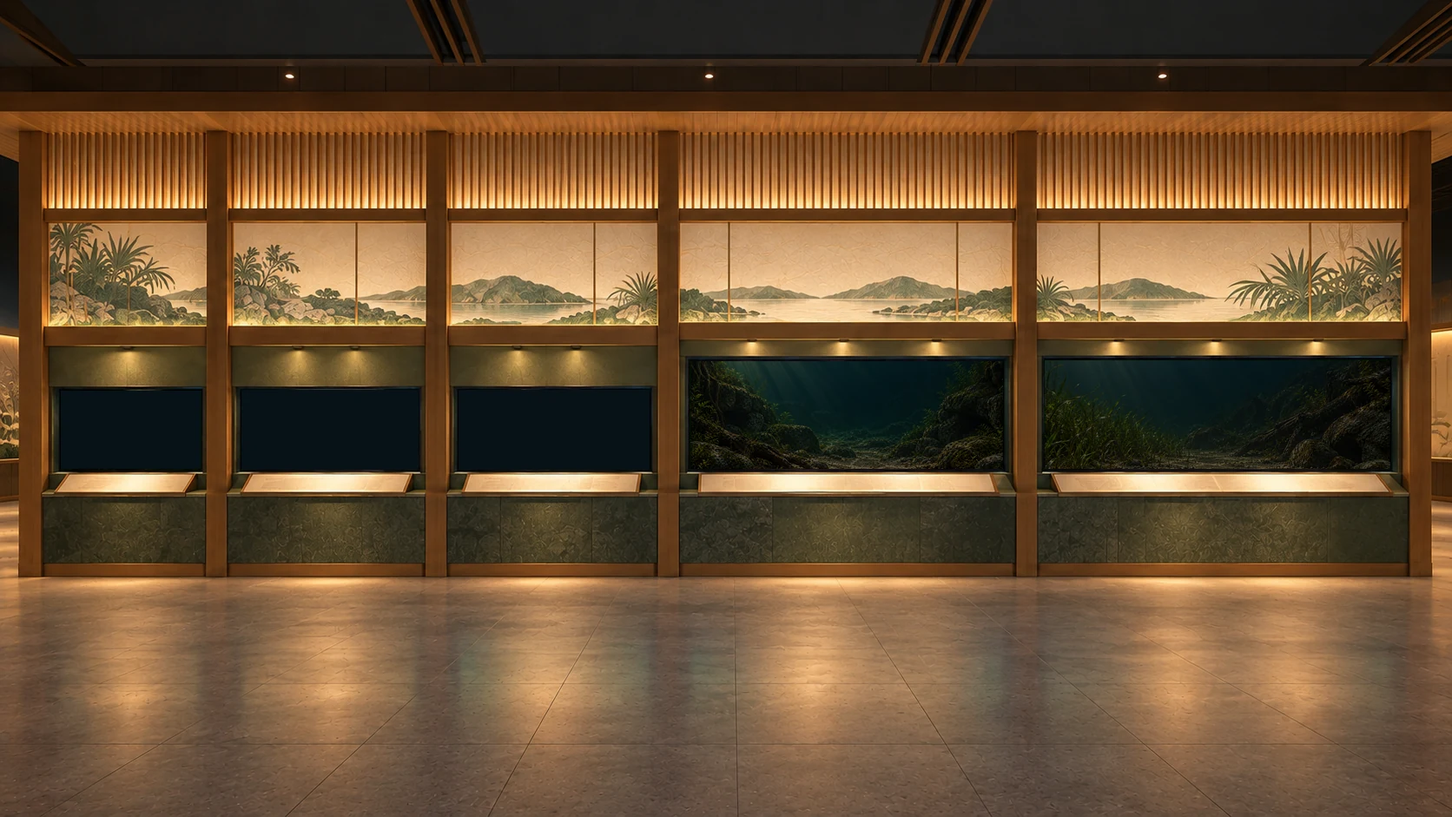
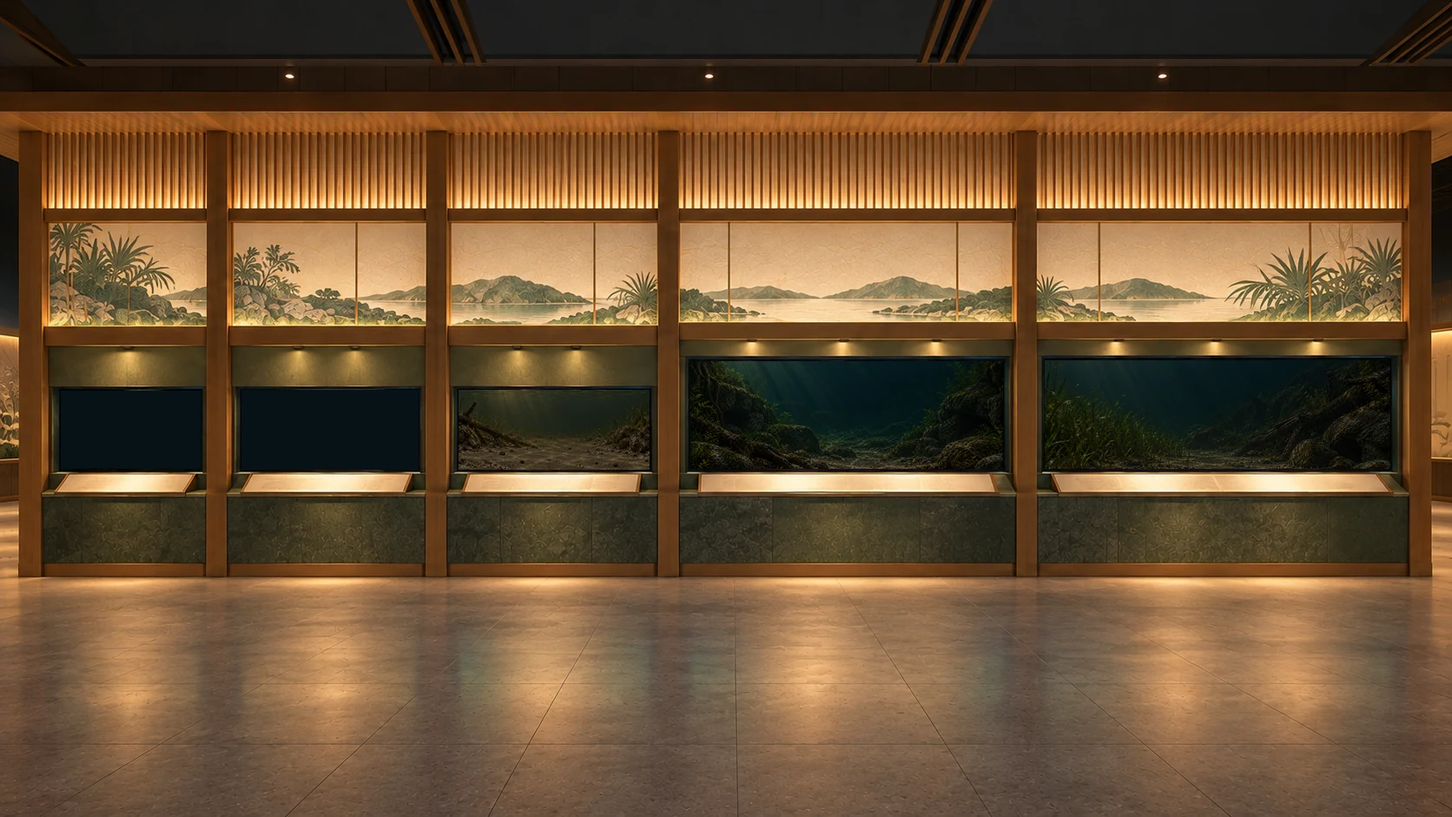
Return the estuary sand and mud tank to preparing, keeping its finished definition as drafts
Its only resident, a 3.5cm juvenile shrimp in a 150cm tank, could hardly be found on screen. Tanks whose creatures cannot be seen stay closed; next steps records the policy and how to reopen it.

Changed region(s): [[0.311, 0.4623, 0.4665, 0.5855]]

diff --git a/docs/next-steps.md b/docs/next-steps.md
@@ -4,13 +4,13 @@
 
 ## 今の状態
 
-- 館は3つの建物（本館・海の館・川と湖の館）。開いているのは本館の地上4階・地下2階、19室・87水槽で、87水槽に389の生き物がいる（種として数えると383種）。海の館（16室）・川と湖の館（13室）と、本館に足す2室は計画中で、館内図には「準備中」の枠で出る。体のつくりは魚、エビ（エビの描き方で歩く甲殻類を含む）、カニ、クラゲ、タコ、イカ、タツノオトシゴ、クリオネ、両生類、カブトガニ、エイ、チンアナゴ、カエル、ヒトデ、ウニ、巻貝・ウミウシの16。
-- **「琉球の川と河口」を開けた（2026年10月10日）**: 計画中の展示室を、Codex の絵で初めて通しで開けた（本館1階、`ryukyu-rivers`）。展示室の絵1枚と水景5枚を Codex の画像生成で作り（6枚を3並列で約3分。展示室の絵は、大型パネルが細長くなったので1回描き直した）、保管庫の `consumer/app-originals/environment/<entityId>/` に置いて採用を記録し、既存の取り込みスクリプトで取り込んだ。Codex の絵を保管庫に置いて採用を記録するのは `scripts/place-codex-environment.py`（展示室の絵は緑の矩形を測って dots と同じ形の記録を書き、展示計画の `glassAspect` と水槽の高さを書く）。手順は [アセットの保管庫の「展示室を開ける流れ」](asset-vault.md#展示室を開ける流れ)。5水槽のうち3つを開けた: 滝をのぼるハゼ水槽（`ryukyu-stream-gobies-90`。ボウズハゼ3匹）、テナガエビの川水槽（`river-prawns-90`。ミナミテナガエビ・ヒラテテナガエビ各2匹）、河口の砂泥底水槽（`estuary-mud-flat-150`。ヨシエビの幼体8匹）。オオウナギの淵（`giant-mottled-eel-400`）と南の河口のアカメ（`southern-estuary-akame-400`）は種がまだなく、準備中（水景は保管庫にあり、展示室の絵に暗く焼き込んである）。水槽の大きさは展示室の絵のガラスに合わせて 90×50、90×40、150×62、400×137、400×124cm にした。テナガエビの川と河口の水槽は、夜行性の種だけなので照明を `evening` にした（絵は日の差す昼の景色。マハゼやボラなど昼行性の魚が入ったら `natural` に戻す）。決めたこと・残っていること: ボウズハゼの科は、館のほかのハゼとそろえてオクスデルクス科にした（調査はハゼ科ボウズハゼ亜科。sizeNote に併記）。泳ぐ範囲を岩の高さまで上げた（`preferredZone.minY` 0.5）。岩に吸い付く・滝を登る動きは描けない。ヒラテテナガエビの絵は、はさみ脚が体の約0.7倍で、依頼の「成雄は体より長い」に届かない（採用の記録に書いた。作り直すなら新しい生成）。テナガエビは、はさみ脚が独立に動かず、石の下へも隠れない（面を歩く生き物は住みかを見ない）。ヨシエビは150cm水槽に体長3.5cm の幼体で、広い画面でも約25px、狭い画面では10px ほどと小さく、体の色が砂泥に溶け込むので、拡大しないとほとんど見つけられない（調査の河口の幼体の大きさ。画面検証で確かめた。水槽が空に見えるので、マハゼなどが届くまで準備中に戻すか、このまま開けておくかは、ユーザーに確かめる）。砂に潜る習性は入れていない（エビの描き方に潜る表現がなく、付けると止まったまま反応しなくなる）。テナガエビ・ヨシエビの夜行性、ボウズハゼの昼行性と単独性は調査に値がなく仮。
+- 館は3つの建物（本館・海の館・川と湖の館）。開いているのは本館の地上4階・地下2階、19室・86水槽で、86水槽に388の生き物がいる（種として数えると382種）。海の館（16室）・川と湖の館（13室）と、本館に足す2室は計画中で、館内図には「準備中」の枠で出る。体のつくりは魚、エビ（エビの描き方で歩く甲殻類を含む）、カニ、クラゲ、タコ、イカ、タツノオトシゴ、クリオネ、両生類、カブトガニ、エイ、チンアナゴ、カエル、ヒトデ、ウニ、巻貝・ウミウシの16。
+- **「琉球の川と河口」を開けた（2026年10月10日）**: 計画中の展示室を、Codex の絵で初めて通しで開けた（本館1階、`ryukyu-rivers`）。展示室の絵1枚と水景5枚を Codex の画像生成で作り（6枚を3並列で約3分。展示室の絵は、大型パネルが細長くなったので1回描き直した）、保管庫の `consumer/app-originals/environment/<entityId>/` に置いて採用を記録し、既存の取り込みスクリプトで取り込んだ。Codex の絵を保管庫に置いて採用を記録するのは `scripts/place-codex-environment.py`（展示室の絵は緑の矩形を測って dots と同じ形の記録を書き、展示計画の `glassAspect` と水槽の高さを書く）。手順は [アセットの保管庫の「展示室を開ける流れ」](asset-vault.md#展示室を開ける流れ)。5水槽のうち2つを開けた: 滝をのぼるハゼ水槽（`ryukyu-stream-gobies-90`。ボウズハゼ3匹）、テナガエビの川水槽（`river-prawns-90`。ミナミテナガエビ・ヒラテテナガエビ各2匹）。オオウナギの淵（`giant-mottled-eel-400`）と南の河口のアカメ（`southern-estuary-akame-400`）は種がまだなく、準備中（水景は保管庫にあり、展示室の絵に暗く焼き込んである）。**河口の砂泥底（`estuary-mud-flat-150`）は、ヨシエビの幼体8匹で一度開けたが、準備中に戻した**（ユーザーより。下の「方針」の「見えない生き物だけの水槽は開けない」）。仕上げた水槽の定義・水景の名前と説明・地形と、ヨシエビの下書きは、`content-drafts/tanks/estuary-mud-flat-150/tank.json`、`content-drafts/scenes/estuary-mud-flat-150/{scene.json,terrain.json}`、`content-drafts/fish/greasyback-shrimp/` に残してある。開けるときは、この3つを `src/content/` の同じ場所（水景は `environment/scenes/`）へ戻し、`install-vault-scene.py estuary-mud-flat-150`（`plate.webp` を作る。`scene.json` があれば上書きしない）と `install-vault-hall.py ryukyu-rivers`、縮小版の作り直しを流す。地形は面を歩くエビ向けに砂の面を手前に寄せた3段にしてあるので、マハゼなど泳ぐ魚を入れるときに見直す。水槽の大きさは展示室の絵のガラスに合わせて 90×50、90×40、150×62、400×137、400×124cm にした。テナガエビの川水槽は、夜行性の種だけなので照明を `evening` にした（絵は日の差す昼の景色）。河口の水槽の下書きも同じ理由で `evening` にしてあるので、マハゼやボラなど昼行性の魚を入れるときに `natural` に戻す。決めたこと・残っていること: ボウズハゼの科は、館のほかのハゼとそろえてオクスデルクス科にした（調査はハゼ科ボウズハゼ亜科。sizeNote に併記）。泳ぐ範囲を岩の高さまで上げた（`preferredZone.minY` 0.5）。岩に吸い付く・滝を登る動きは描けない。ヒラテテナガエビの絵は、はさみ脚が体の約0.7倍で、依頼の「成雄は体より長い」に届かない（採用の記録に書いた。作り直すなら新しい生成）。テナガエビは、はさみ脚が独立に動かず、石の下へも隠れない（面を歩く生き物は住みかを見ない）。ヨシエビは150cm水槽に体長3.5cm の幼体で、広い画面でも約25px、狭い画面では10px ほどと小さく、体の色が砂泥に溶け込むので、拡大しないとほとんど見つけられなかった（調査の河口の幼体の大きさ。画面検証で確かめた。これが準備中に戻した理由）。砂に潜る習性は入れていない（エビの描き方に潜る表現がなく、付けると止まったまま反応しなくなる）。テナガエビ・ヨシエビの夜行性、ボウズハゼの昼行性と単独性は調査に値がなく仮。
 - **既存の水槽へ6種を取り込んだ（2026年10月10日）**: ブラックアロワナ（arowana-300。全長65cmで描いた）、インドネシアシーラカンス（coelacanth-300。125cm。日中に洞窟の外で見られた記録があるので `hideByDay` を付けず、単独。category を「コモロ諸島とインドネシアの深い岩礁」に変えた。保全状況 VU は IUCN を直接確かめていない値）、ネオランプロログス・カリプテルス（shell-dwellers-45。上限1匹。表示名は同じ水槽の既存種の「ログス」表記にそろえ、カタログの表記は別名に入れた。殻へ入る習性は付けず、殻を運ぶ動きは描けない。全長12cm は45cm水槽の幅の約27%で、4cm 前後のほかの種に対してかなり大きく見える）、ダリオ・ヒスギノンとダリオ・ティグリス（macro-fresh-30。各2匹。水槽は「ダリオの仲間4種を見比べる」にし、category を「インド北東部とミャンマー北部の小川」に変えた。ヒスギノンの頬の水色は種の写真で支持されない色で、dots の再開後に編集で直せる）、アデヤカフトユビシャコモドキ（mantis-45。1匹。上限を2にした。実際に同じ水槽で飼うことは勧められないと説明文に書いた。頭の前へ伸びる突起が標本図より長い）。6種とも速さや休む頻度は調査に値がなく仮（シャコモドキの昼行性だけは根拠あり）。大きさが出典で食い違う種は sizeNote に両方を書いた。
 - **`plan:check` が「画像を待つ」を分けて出す（2026年10月10日）**: 「取り込める」と出ていたナンヨウタコクラゲ・クロカムリクラゲと、「水槽を待つ」と出ていたシマヨシノボリは、dots の記録に「生成済み」「実行中」とあるだけで、画像のファイルが保管庫になかった。`plan:check` は、`species/<id>/meta.json` の画像のパスにファイルがあるかを見て、ない種を「画像を待つ」と出すようにした。
 - **地形の案内の絵（2026年10月10日）**: 水景を編集して、魚を隠す物体を手前=赤・中=黄・奥=青で塗った版と、隠れ場所の口にマゼンタの丸を付けた版を Codex に作らせ、下書きの道具に渡せるようにした（`draft-terrain.py --occluders … --shelters …`）。3水景で試し、塗り分け版ははっきり効いた（案内なしは水草・根・水まで遮蔽に巻き込むが、案内ありは岩と流木だけを選べる）。印の版は当たりが2〜3割で目安どまり。面のつなぎと縁の余裕は、どちらにしても手作業。結果と直すとよい点は [地形の下書きの「案内の絵を使う」](terrain-drafting.md#案内の絵を使う2026年10月10日)。dots への要件（保管庫の `consumer/environment-requests-ja.md`）にも足した。
 - **建物の段（2026年10月10日）**: 館 → 建物 → 階 → 展示室 → 水槽の階層にした。建物は `src/content/museum/buildings/<id>/`（`building.json` と断面図 `section.webp`）に1つずつ置き、フォルダを足せば建物が増える（`museum.json` は館の名前と紹介文だけ）。階・展示室・水槽の id は館全体で重ならないので、URL（`?floor=`・`?hall=`・`?tank=`）と保存データの形は変わらない。本館以外の建物の断面図は `?building=<id>`。館内図は、建物が複数あると見出しの下に建物の切り替えが出て、断面図とフロアガイドが選んだ建物のものに替わる。階の一覧の「戻る」と Esc は、その階の建物の断面図へ戻る。図鑑の「見られる水槽」と展示室の見出しは「海の館 3階」のように建物を付ける。準備中の展示室のカードは低くした。新しい2つの建物の断面図は、本館の断面図を参照画像にして Codex の画像生成で作った（原画は保管庫の `consumer/app-originals/museum/`）。仕組みは [設計の「館・建物・階・展示室の階層」](museum-architecture.md#1-館建物階展示室の階層実装済み)、建物を足す手順は [アセットの保管庫](asset-vault.md#建物を足す流れ)。検証・計測のスクリプトは、建物と階の並びを `scripts/museum-content.ts` から読む。
-- **館の拡張計画（2026年10月10日）**: 展示計画（保管庫の `catalog/exhibit-plan.json`）を第2版にし、3つの建物・14階・50展示室・254水槽へ広げた（開いているのは19室・87水槽）。計画中の170水槽には、何を見せるか（`storyJa`）、水景の説明（`sceneEn`）、入れたい種の手がかり（`candidates`。和名・学名・役割。合わせて約1,260種。dots の調査で確かめる前提の手がかりで、確定ではない）がある。置いた種と手がかりを合わせて約1,660種ぶんの器で、水槽1つに平均6.6種（手がかりのうち約140種は、まだ描けない体のつくりを待つ。改良品種46は種に数えていない）。`phase` 3（159水槽）は今の体のつくりで開けられ、`phase` 4（11水槽）はまだ描けない体のつくりが主役。構成と3つに分けた理由は [設計の「建物と階の構成」](museum-architecture.md#建物と階の構成)。保管庫に画像があって置き場所のなかった種は、すべて計画のどこかの水槽に置いた。**`bun run plan:check`** が、計画とアプリの食い違い（建物・階・展示室の枠の並び、水槽の展示室、水槽の種、置き場所のない種）と、器の数、「取り込める種」（水槽が開いている）・「水槽を待つ種」を表示する。計画を書くときに決めたこと: イトウ・ホンモロコ・ゲンゴロウブナは、今の水槽に置いたまま、計画中の水槽（湿原の川、琵琶湖のヨシ原）にも置いた（その展示室を開けるときに、今の水槽から外すか決める）。深海の底の4種（グソクムシ2種、タカアシガニ、キワ・ヒルスタ）と水生昆虫2種・カブトエビは、海の館と川と湖の館の水槽へ移した。インドネシアシーラカンスは coelacanth-300 で2種を見比べる。
+- **館の拡張計画（2026年10月10日）**: 展示計画（保管庫の `catalog/exhibit-plan.json`）を第2版にし、3つの建物・14階・50展示室・254水槽へ広げた（開いているのは19室・86水槽）。計画中の170水槽には、何を見せるか（`storyJa`）、水景の説明（`sceneEn`）、入れたい種の手がかり（`candidates`。和名・学名・役割。合わせて約1,260種。dots の調査で確かめる前提の手がかりで、確定ではない）がある。置いた種と手がかりを合わせて約1,660種ぶんの器で、水槽1つに平均6.6種（手がかりのうち約140種は、まだ描けない体のつくりを待つ。改良品種46は種に数えていない）。`phase` 3（159水槽）は今の体のつくりで開けられ、`phase` 4（11水槽）はまだ描けない体のつくりが主役。構成と3つに分けた理由は [設計の「建物と階の構成」](museum-architecture.md#建物と階の構成)。保管庫に画像があって置き場所のなかった種は、すべて計画のどこかの水槽に置いた。**`bun run plan:check`** が、計画とアプリの食い違い（建物・階・展示室の枠の並び、水槽の展示室、水槽の種、置き場所のない種）と、器の数、「取り込める種」（水槽が開いている）・「水槽を待つ種」を表示する。計画を書くときに決めたこと: イトウ・ホンモロコ・ゲンゴロウブナは、今の水槽に置いたまま、計画中の水槽（湿原の川、琵琶湖のヨシ原）にも置いた（その展示室を開けるときに、今の水槽から外すか決める）。深海の底の4種（グソクムシ2種、タカアシガニ、キワ・ヒルスタ）と水生昆虫2種・カブトエビは、海の館と川と湖の館の水槽へ移した。インドネシアシーラカンスは coelacanth-300 で2種を見比べる。
 - **地形の下書きを絵から作る道具（2026年10月10日）**: `uv run scripts/draft-terrain.py <水景id|画像>... [--compare]` が、水景の絵から `terrain.json` の下書きと、絵に地形を重ねた確認画像を `tmp/terrain-drafts/<id>/` に出す（1水景約6秒。既存のファイルは `--write` を付けたときだけ書く）。単眼の奥行き推定（Depth Anything V2 Small）で底と物体を分け、砂の面を手前・中・奥の3段、岩や流木を遮蔽の多角形と回避領域の楕円、足もとの暗がりを隠れ場所にする。既存の92水景の手書きの地形と比べた結果（`uv run scripts/draft-terrain.py evaluate`）: 手前の砂の線は77%で合い（y の差の中央値は絵の高さの1.2%）、砂の面ぜんぶでは67%、遮蔽の面積は IoU 0.54（取りこぼしは少なく、余計に取る）、回避領域は IoU 0.26、隠れ場所の位置は35%。見立てでは、そのまま使えるのは1割に届かず（クラゲの水槽など底だけの水景）、手直しで使えるのが6〜7割、作り直しに近いのが2〜3割（根の林立する水景、水草が画面を埋める接写、巣穴・海草・イソギンチャクが主役の水景、ほとんどが水の大水槽）。下書きに差し替えた92水景は、どれも水槽の耐久テスト（`bun run test:tanks`）を通った。つまり「下書きを出す → 確認画像を見て、遮蔽の取捨と奥行き、岩の上面、隠れ場所（巣穴・イソギンチャク・海草の茎は一から）、水面より上の面を手で直す」という使い方になる。仕組み・数字・人が見るべき点は [地形の下書きを絵から作る](terrain-drafting.md)。
 - **テストの効率化（2026年10月10日）**: `bun run test` は約145秒から約30秒になった（37ファイル・426件）。(1) 全水槽を回す耐久テスト（`terrainEndurance.test.ts`）を水槽ごとのテストに分け、`vite.config.ts` の8つのプロジェクト（`tanks-1`〜`tanks-8`）で並列に流す。全水槽の「回避領域の外・ガラスの内」のテスト（`terrainMotion.test.ts` にあった）もここへ移した。`bun run test:tanks -- -t <水槽id>` で担当の水槽だけに絞れる。(2) 内容のモジュール（`vite/contentModules.ts`）が、モジュールを1つ読むたびに内容ファイル約1,100個すべてを監視に登録していて、全種を読むテストの準備がファイルごとに11秒かかっていた。モジュールが使うファイルだけを登録するようにした（開発サーバーで図鑑や展示室を開くのも速くなる。ビルドの成果物は変わらない）。(3) 作業中は `bun run test:fast`（全水槽を回すテストを除く。約6秒）。(4) テストの間の `Math.random` を決まった乱数列にした（`src/core/testSetup.ts`。テストごとに振り直す）。`bun run test:fuzz` は乱数を毎回変え、使った値を表示する（`TEST_SEED=<値>` で再現）。6回流して落ちるテストはなかった。(5) `tmp/` に残っていた古い写しのテスト（6ファイル・29件）を拾っていたので、外した（これまでの「36ファイル・181件」にはこれが入っていた）。(6) 画面検証に `--changed`（まだ commit していない差分から展示室を選ぶ。`--changed=<ref>` も可）と `--dry-run`（選んだ範囲の表示だけ）を足した。内容ファイルと魚以外の体のつくりの描き方だけの差分なら展示室を絞り、共通部分に及べば全体を検証する。
 - **性能の計測（2026年10月10日）**: `bun run measure:perf` が、狭い画面（420×912）で全18展示室と、各展示室でいちばん匹数の多い水槽の水槽画面を測り、基準値（`docs/performance-baseline.json`）と比べる（約7分）。測り方・基準値・分かったことは [性能の計測と基準値](performance.md)。要点: 1フレーム（16.7ms）に対して、いちばん重い展示室（176匹）でもメインスレッドの計算は 0.8ms、ふだんの描画で 2.5ms（M4 Pro での値。iPhone の実機では測っていない）。計算は生き物の数に比例する（1匹約 0.005ms）ので、展示室1室180匹までの決まりを守れば、種が増えても1フレームは重くならない。GPU の側は生き物の数ではなくキャンバスの画素数で決まる。カエルの体の変形だけが重かった（1匹が魚約50匹ぶん）ので直した（africa の計算が 0.90ms → 0.51ms。絵は1画素も変わらない）。生き物のメッシュをまとめて描く方法は、描画の回数が7割減るが Mac では計算が増えて得にならず、入れていない。最初の JS（289KB）は7割が react-dom で、水槽画面と設定パネルを後から読む形にしても多くて 12KB しか減らないので、やらない。描画の作りを変えたときに絵が変わっていないことを確かめる `bun run compare:render -- <前のビルド>`（乱数と時刻を固定して2つのビルドを画素単位で比べる）も足した。
@@ -37,7 +37,7 @@
 - 館内図は2段（断面図とフロアガイドで階を選ぶ → その階の展示室を縮小版つきで一覧する）。URL は `?floor=<階>`。展示室の「館内図」と Esc はその階の一覧へ戻る（[設計の「館・階・展示室の階層」](museum-architecture.md#1-館階展示室の階層実装済み)）。
 - 最初に読む JS は 299KB（gzip 93KB。2026年10月10日に建物の段と準備中の展示室の枠を足して約10KB 増えた）。内容はビルド時に検証して、起動時は館の索引（約20KB）だけ、部屋の絵のガラスの位置と水景の見出しは階を開くときに階ごとのモジュールで、展示室の中身は入るときに1チャンクで読む（[設計の「数百種に耐えるための決まり」](museum-architecture.md#数百種に耐えるための決まり2026年10月5日に実装10月7日に作り直し)）。館の索引は展示室と水槽の数に比例し、生き物と水景の数では増えない。
 - 保存データの古い形式からの移行処理は消した（古いキーは読まずに消す）。水槽の設定は、その展示室に初めて入ったときに加わる。
-- 保管庫（`~/Documents/aquarium-assets`）の種のフォルダは388種（2026年10月8日）。dots は約1,300種を目標に制作を続けている。魚以外は、体のつくりができるまで採否を保留している（カニ、クラゲ、タコ・イカ、タツノオトシゴ、クリオネ、有尾類、カブトガニ、エイ、チンアナゴ、カエル、ヒトデ、ウニ、巻貝・ウミウシは済み。二枚貝、イソギンチャク、ウミユリ、等脚類、水生昆虫、カブトエビ、ヒラメ・カレイ、渓流の平たい魚などが残る）。計画で水槽が決まっていて館にまだいない種は、2026年10月10日の取り込みのあとで22（うち3種は画像が保管庫に届いていない。`bun run plan:check`）。
+- 保管庫（`~/Documents/aquarium-assets`）の種のフォルダは388種（2026年10月8日）。dots は約1,300種を目標に制作を続けている。魚以外は、体のつくりができるまで採否を保留している（カニ、クラゲ、タコ・イカ、タツノオトシゴ、クリオネ、有尾類、カブトガニ、エイ、チンアナゴ、カエル、ヒトデ、ウニ、巻貝・ウミウシは済み。二枚貝、イソギンチャク、ウミユリ、等脚類、水生昆虫、カブトエビ、ヒラメ・カレイ、渓流の平たい魚などが残る）。計画で水槽が決まっていて館にまだいない種は、2026年10月10日の取り込みのあとで23（うち3種は画像が保管庫に届いていない。`bun run plan:check`）。
 - **dots の画像生成は戻った（2026年10月8日、ユーザーより）。** 作り直しの依頼や新しい絵の依頼も、また出せる。
 - **10月8日に9種を取り込んだ**: ヤマトオサガニ（作り直しの r2 の2枚目）とヒメヤマトオサガニを干潟（mudflat-120）、オオズワイガニを北の海のカニ水槽、ティンフォイルバルブをメコン川の大型魚水槽、アカマツカサを夜の岩礁水槽、ラビドクロミス・キスムラエとソコロフィをマラウイ湖の水槽、トリマ・ルブロマクラタムとメガネベニハゼをサンゴ礁の岩陰水槽（macro-reef-30。匹数の上限を3から8へ）に置いた。メガネベニハゼの住みかは、調査では岩の割れ目（crevice）だが、この水槽の地形にあるサンゴ礫の隙間（cave）にした。オオズワイガニ（脚を広げた幅42cm）は、甲幅からの換算どおりで、ズワイガニ（63cm）より小さく見える。ズワイガニのほうが換算より大きい。
 
@@ -86,6 +86,7 @@
 - **水族館にいそうな生き物は載せる**（2026年10月10日、ユーザーより）。爬虫類・哺乳類・鳥（ウミガメ、ペンギン、アザラシ、イルカ、ワニ、カワウソなど）も載せる前提にする。明らかに水族館にいないもの（クジラ、カバ、水鳥など）は載せない。哺乳類などは動きを作るのが難しいので、体のつくりができるまでは展示計画の候補（`needs` つき）のまま置く。
 - **改良品種は同じ種として数える**（2026年10月10日、ユーザーより）。金魚・メダカ・錦鯉などは、姿の違いとして複数置いてよいが、種の数は増やさない（展示計画の候補では `varietyOf`、アプリでは同じ `speciesKey`）。
 - **外来種は「外来種の水辺」だけに置く**（2026年10月10日、ユーザーより）。オオクチバスやブルーギルを原産地の水槽に重ねて置かない。原産地の水槽で存在感の大きい種が出てきたら、そのときに考える。
+- **見えない生き物だけの水槽は開けない**（2026年10月10日、ユーザーより）。水槽に対して小さすぎたり、底の色に溶け込んだりして、画面でほとんど見つけられない生き物しかいない水槽は、準備中のままにする（一度開けたものは準備中に戻す）。完成までは時間がかかるので、少しずつ進めばよい。思いどおりに見せられない生き物は、その生き物に合う小さな水槽を展示計画に足すなど、拡張計画の中で置き方を考える。数字の決まりは作っていない（体長が水槽の幅の2〜3%でも、色のある群れで泳ぐテトラは見える。小さく、底にいて、底と同じ色の生き物が見えない）。水槽を開ける前に、画面検証の画像で生き物が見つけられるかを見る。
 - **互換性は気にしない。** 保存データ、水槽ID、展示室ID、ファイルの形は、よりよい設計のためなら変えてよい（利用者は開発者本人だけ）。古い保存データの移行処理も消してよい。
 - **器が先。** 種を受け入れる前に、その種の入る水槽が展示計画にあるようにする。置き場所のない種は `bun run plan:check` が食い違いとして出す。展示室や水槽を計画から変えるときは、先に展示計画を直す。
 - **データで決める。** 展示室・水槽・水景・生き物・建物は `src/content/` のファイルを置けば読み込まれる形を保つ。中央の一覧ファイルを手で編集する形にしない。取り込みはスクリプトで行う（[アセットの保管庫](asset-vault.md#展示室を開ける流れ)）。
@@ -125,7 +126,7 @@
 
 テストの効率化、性能の計測、建物の段、館の拡張計画、最初の展示室（琉球の川と河口）を開けること、既存の水槽への6種の取り込みは2026年10月10日に済ませた（上の「今の状態」）。
 
-1. **計画中の展示室を開ける（続き）**: 最初の1室「琉球の川と河口」は Codex の絵で通した（上の「今の状態」）。同じ手順（[アセットの保管庫](asset-vault.md#展示室を開ける流れ)）で次を開ける。保管庫に画像のある種が入る展示室から（`bun run plan:check` の「水槽を待つ」）: 本館4階「北の川とサケの遡上」（`northern-rivers`。サケ、イトヨ。イトウも置ける）、海の館2階「ヨーロッパの海」（`european-seas`。5種）、川と湖の館の「ヨーロッパの川と湖」「北アメリカの川と湖」「両生類」（各1種）。海の館・川と湖の館は、建物として初めて開くので、建物の切り替えと断面図の見え方も確かめる。1室の中で開く水槽が1〜2台だけになる展示室は、dots の配送を待ってもよい。1室あたり、Codex の絵（展示室1枚、水景は水槽の数、案内の絵は開ける水槽×2枚）で約10分、種の下書きと地形はサブエージェントに分けて並行させる（種の下書き1件、地形は水槽ごとに1件）。展示室の絵は、パネルの大きさの目安を画素で書く。「琉球の川と河口」の残り: 準備中の2水槽（オオウナギ、アカメ。種が届いたら地形を作って開ける）、候補の種（ヨシノボリの仲間、コンジンテナガエビ、マハゼ、ボラなど。dots の作業リストに入っている）。
+1. **計画中の展示室を開ける（続き）**: 最初の1室「琉球の川と河口」は Codex の絵で通した（上の「今の状態」）。同じ手順（[アセットの保管庫](asset-vault.md#展示室を開ける流れ)）で次を開ける。保管庫に画像のある種が入る展示室から（`bun run plan:check` の「水槽を待つ」）: 本館4階「北の川とサケの遡上」（`northern-rivers`。サケ、イトヨ。イトウも置ける）、海の館2階「ヨーロッパの海」（`european-seas`。5種）、川と湖の館の「ヨーロッパの川と湖」「北アメリカの川と湖」「両生類」（各1種）。海の館・川と湖の館は、建物として初めて開くので、建物の切り替えと断面図の見え方も確かめる。1室の中で開く水槽が1〜2台だけになる展示室は、dots の配送を待ってもよい。1室あたり、Codex の絵（展示室1枚、水景は水槽の数、案内の絵は開ける水槽×2枚）で約10分、種の下書きと地形はサブエージェントに分けて並行させる（種の下書き1件、地形は水槽ごとに1件）。展示室の絵は、パネルの大きさの目安を画素で書く。「琉球の川と河口」の残り: 準備中の3水槽（オオウナギ、アカメは、種が届いたら地形を作って開ける。河口の砂泥底は、マハゼなど大きさのある種が届いたら、残してある下書きから開ける。ヨシエビは、そのとき一緒に置くか、汽水の小さなエビとハゼを間近で見せる30〜60cm の水槽を計画に足して移す。展示計画の `notes.openQuestionsJa`）、候補の種（ヨシノボリの仲間、コンジンテナガエビ、マハゼ、ボラなど。dots の作業リストに入っている）。
 2. **地形の下書きの道具を直す**: 案内の絵（塗り分け版）を使うとき、塗られた物体を色の境目と連結成分ごとに別の遮蔽に分ける（今は手前から重ねた輪郭にするので、隣り合う石が1枚にまとまり、石の多い2水景では結局引き直した）。奥の段（青）のうち、開けた水に掛かる広い塗りは遮蔽にしない。面を歩く生き物だけの水槽では、石や流木の上面を出さない選択肢と、砂の面を段に分けて端点でつなぐ下書きがあると、手作業が減る。直したら、既存の92水景の評価（`uv run scripts/draft-terrain.py evaluate`）が悪くなっていないことと、「琉球の川と河口」の3水景の案内の絵（保管庫の `consumer/app-originals/environment/scene-*/guide-*.png`）で、手で直した terrain.json にどれだけ近づくかを見る。
 3. **画像の届いていない3種**: クロカムリクラゲ、ナンヨウタコクラゲ、シマヨシノボリは、dots の配送が届いたら取り込む（上の「dots と約束したまま残っていること」）。手順は上の「届いた生き物を取り込む手順」。
 4. **魚以外の体のつくり（続き）**: 計画中の水槽の手がかり（`candidates[].needs`）で、まだ描けない体のつくりを待つ種は、固着するもの（イソギンチャク・サンゴ・ホヤなど）25、水生昆虫22、二枚貝19、ワニ9、イルカの仲間7、ナマコ6、淡水のカメ6、アザラシの仲間5、ヒラメ・カレイ5、カワウソ4、ウミガメ3、ペンギン3の順に多い。爬虫類・哺乳類・鳥は載せる前提だが（上の「方針」）、哺乳類は動きがかなり違って難しいので、無脊椎動物と水生昆虫を先にし、爬虫類・哺乳類・鳥ではウミガメ（羽ばたく泳ぎはエイやクリオネに近い）やペンギンのように分かりやすく動きの単純なものから始める。ウミガメ・ペンギン・アザラシなどは、画像の視点を dots と決めるところから要る。保管庫には、二枚貝、イソギンチャク、ウミユリ、等脚類、水生昆虫、カブトエビ、ヒラメ・カレイ、渓流の平たい魚の視点がある（残りは5〜7個の見込み。画像はそろっているので、描き方を作れば dots なしで約20種が館に入る。ただし置き場所は計画中の水槽が多いので、1の展示室を開ける作業と組にする）。エビの描き方に、砂に潜る表現（ヨシエビ、コトブキテッポウエビ）と、はさみ脚を独立に動かす表現（テナガエビ）がない。二枚貝は巻貝の「殻を楕円で書いて動かさず、殻の外の軟体を変形する」仕組みがそのまま使える（シャコガイは外套膜の縁の波打ちと、驚いて外套膜を引っ込める動き。ただし這わないので、その場にとどまる性質が要る。ヌマガイなど砂に半分埋まるものはカブトガニの切り抜きも使える）。イソギンチャクは触手が多いので、ウニの放射状の揺れ（`radial`）と巻貝の `feelers` を組み合わせた新しい描き方が向く（動かない生き物の性質も要る）。reef-invertebrates-90 には、シャコガイを描けるようになったら足す（展示計画の futureSpecies）。巻貝・ウミウシで足りないもの: ガラス面を這う（ガラスを面として持つ設計と足の裏の絵が要る）、蓋の動き、リンゴガイが水面へ呼吸管を伸ばす、卵嚢を産む、ウミウシが海綿の上にとどまる（面を歩く生き物は住みかを見ない）、メッシュが粗く（26×16）引っ込める間に殻の縁がわずかに潰れる（画面では見えない）。スパイクトップアップルスネールは絵の呼吸管の位置が違うので、dots の再開後に作り直しを頼む。ヒトデ・ウニで足りないもの: ガンガゼが昼に岩穴へ隠れる（面を歩く生き物は住みかを見ない）、ガラス面を這う（口側の絵がない）、ヒトデの捕食・胃を出して食べる様子、ウニが海藻に登る動き。reef-invertebrates-90 ではヒトデとガンガゼが手前で大きく見え、起動直後に重なることがある。手順は [設計の「体のつくり」](museum-architecture.md#3-体のつくり実装済み)。保管庫に画像と調査がある種から採用する。保管庫に画像があり、まだ置いていないカニは2種: タカアシガニ（海の館の `spider-crab-slope-1000`）とキワ・ヒルスタ（海の館の `hydrothermal-vent-180`）。どちらも計画中の水槽。カエルで足りないもの: 水面に脚を広げて浮かんで休む（ヒメツメガエル）、待ち伏せから突進して吸い込む捕食、コモリガエルの指先で獲物を探る動き。真上の絵しかないので、息継ぎに真上へ泳ぐ間も背中が見える（体を立てた向きの絵はない）。面を歩く生き物（カニ・エビ）は `homeShelter` を見ないので、住みかのそばにとどめたいときは面の置き方で表している（イソギンチャクカニダマシ）。ヤドカリは横歩きのカニの描き方で、殻の下の縁も脚と一緒に少し揺れる。ウーパールーパー（axolotl）は画像があり両生類の描き方で描ける。置き場所は川と湖の館の `axolotl-120`（両生類の展示室。計画中）。両生類で足りないもの: 巣穴への出入り（オオサンショウウオは岩の下の穴に頭を差し入れるところまで）、水面の近くで休む、ホライモリとウーパールーパーの外鰓の揺れ、アカハライモリの陸場への出入り、オオサンショウウオが水面で向き直るときに尾がガラスの上端で切れること。タコ・イカで足りないもの: 擬態の色変わり、腕で獲物を探る動き、巣穴への出入り、イカの群れの間合い（120cm水槽の36cmのアオリイカは重なって見えやすい）。チンアナゴで足りないもの: 口を大きく開け、低い姿勢で隣の個体を威嚇する、まれに全身を出して泳ぎ、新しい巣穴を掘る、流れの速さで出す長さと曲がりを変える（水槽に流れの強さがない）。巣穴の候補は、手前と奥の2本の砂の面の間を砂地とみなして補間しているので、その間に岩や水草のある水景に置くときは確かめる。顔だけ出しているときは、頭が絵の首の傾きのまま少し寝て見える。ほかのガーデンイール（ホワイトスポッテッドガーデンイールなど）は、保管庫に届いたら同じ描き方で置ける。エイで足りないもの: アカエイ・モトロが砂に潜って眼と噴水孔だけを出す（カブトガニの `burrow` は面を歩く生き物だけ。見下ろした円盤は砂の面で水平に切ると手前半分が消えるので、切り抜きではなく砂をかぶせて見せる必要がある）、ブルースポッテッドスティングレイが満ち潮に群れで浅場へ移る、マンタの頭鰭を広げて餌をこし取る動き、マンタを下から見上げる腹側の絵。日本の水族館で主に展示されるのはナンヨウマンタ（M. alfredi）なので、黒潮の大水槽に置くなら dots に頼む。読み込み直後は、生まれたときの向きと泳ぎ出す向きが違う個体が体盤の面で回るので、しばらく斜めを向いて見える。カブトガニで足りないもの: 仰向けで鰓脚を動かして泳ぐ（成体ではまれ）、雄が雌の後体をつかんでつながる抱合、尾剣で起き上がる動き。砂の面で切り抜くマスクは水平なので、坂の面で潜ると切り口が坂に沿わない（今の水槽は平らな砂底だけ）。初めに置いたときに個体が重なっていると、両方が潜ったまま重なって見えることがある。カニの描き方で足りないもの: 干潟の岸と水中のどちらの面を歩くかを種で選べない（ハクセンシオマネキが水中も歩く）、シオマネキの雄のウェービング、巣穴への出入り。クラゲで足りないもの: クシクラゲの櫛板の虹色のきらめき（今は体が揺れるだけ）、アトラクラゲなどの発光。クリオネで足りないもの: 頭の口円錐を広げて獲物（Limacina）を捕らえる動き。北太平洋のハダカカメガイ（C. elegantissima）を展示するなら、dots に調査と画像を頼む。深海のクラゲ水槽はアトラクラゲだけなので、深海のクラゲ（保管庫に届いたら）を足す。
